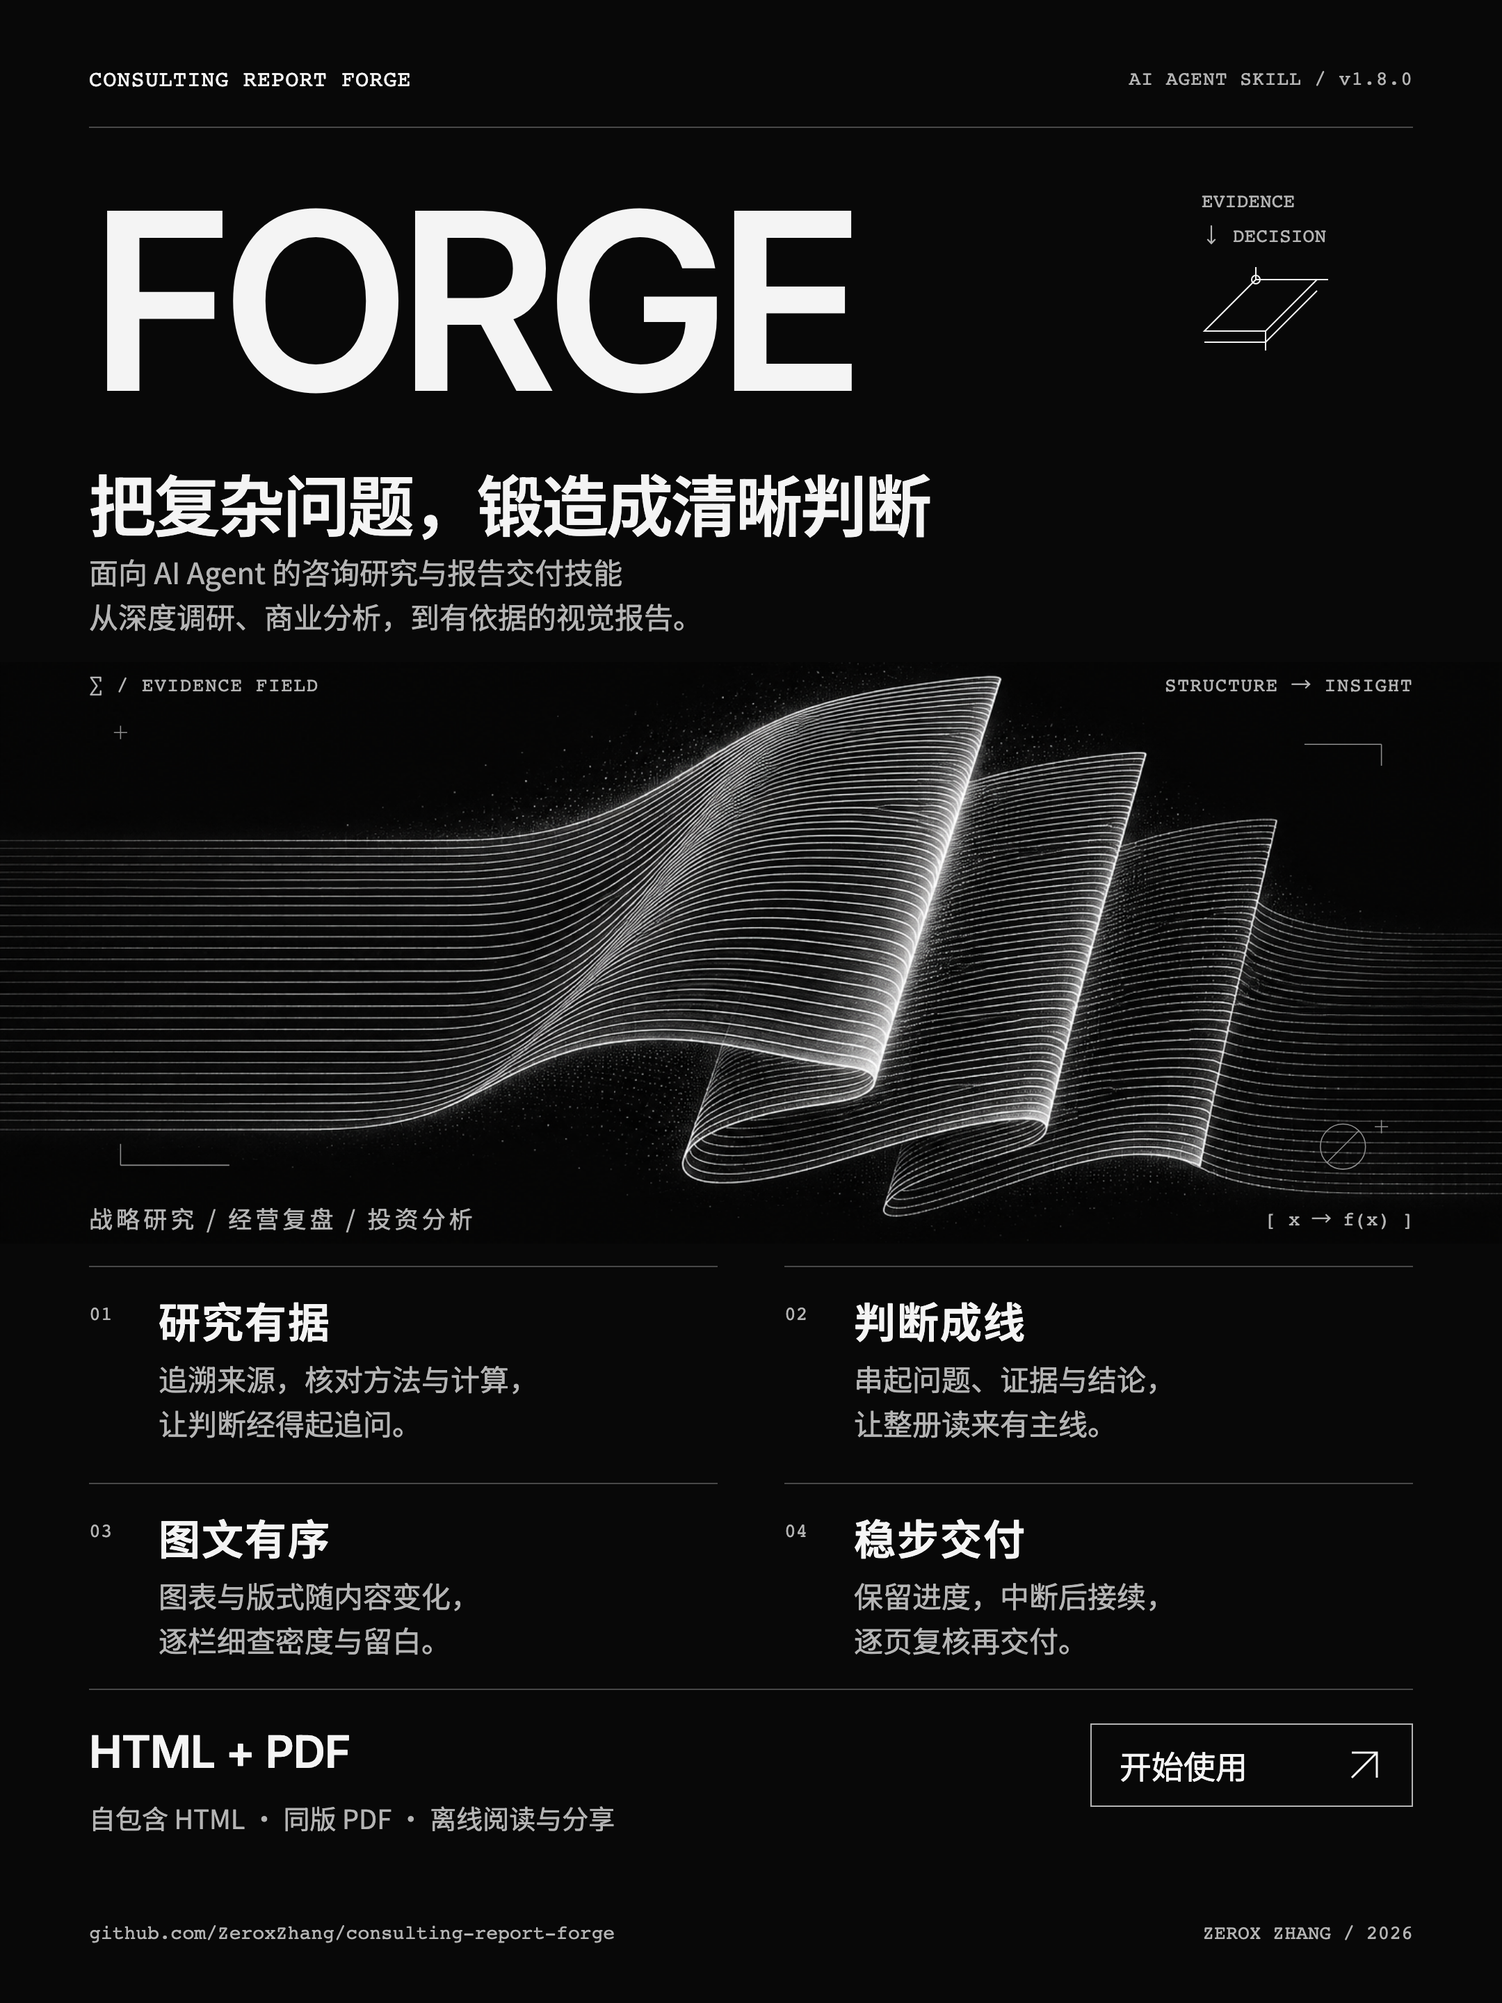
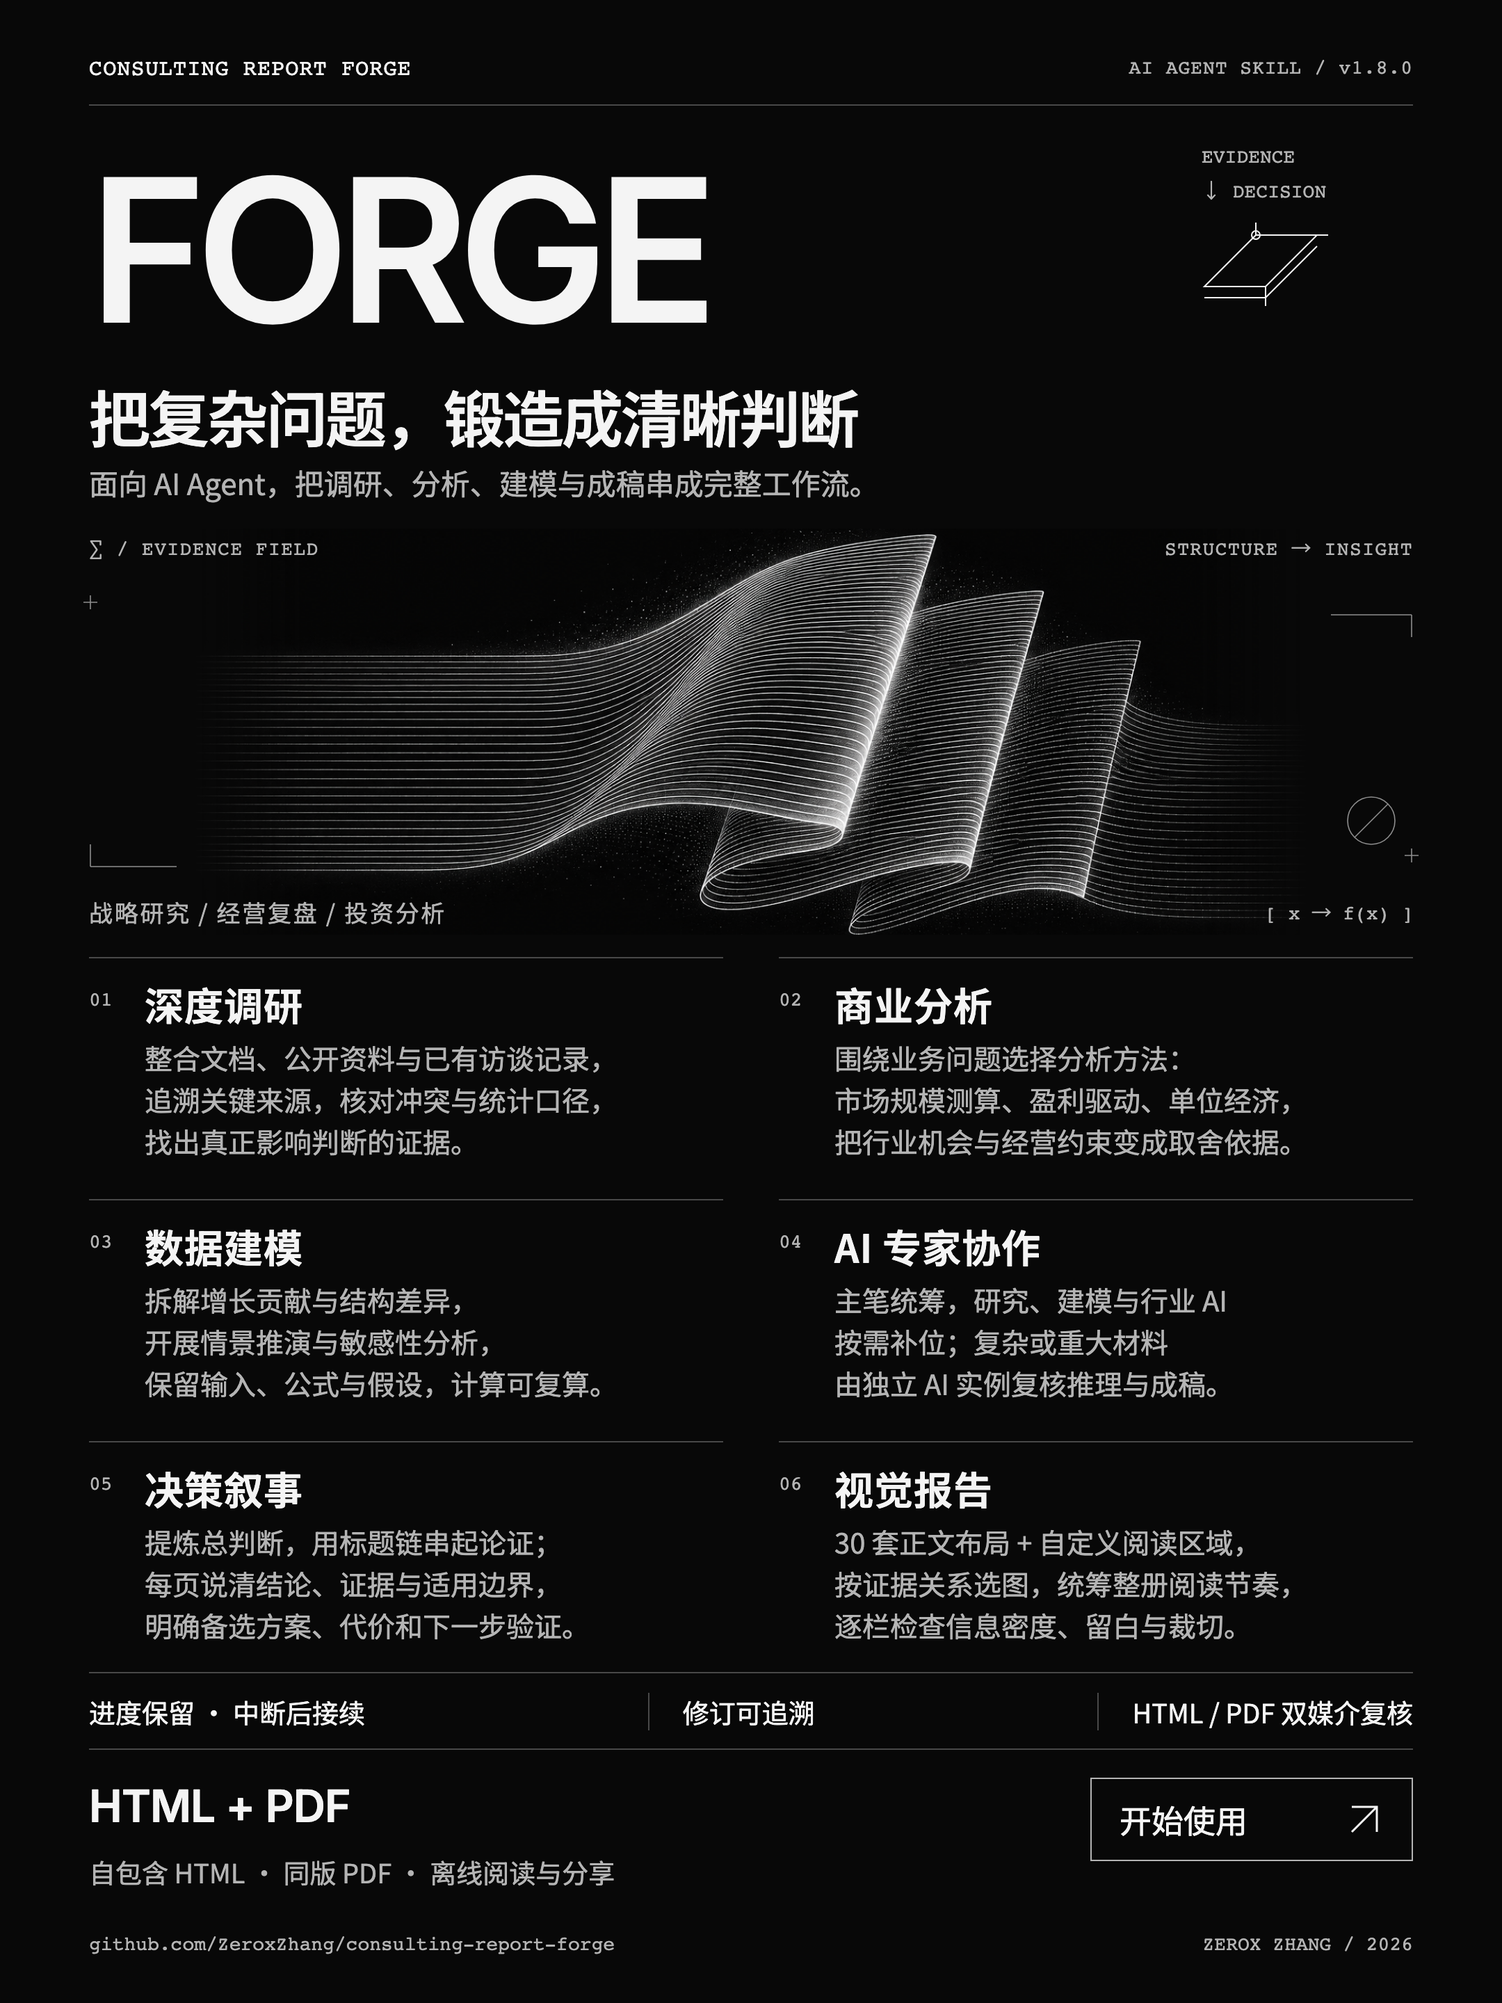
docs: 补充海报六项核心能力与交付亮点

diff --git a/docs/showcase/skill-poster.html b/docs/showcase/skill-poster.html
@@ -5,8 +5,8 @@
   <meta name="viewport" content="width=1080">
   <title>Consulting Report Forge · 产品介绍海报</title>
   <!-- design intent: 字体驱动；黑白平行光栅折成书页，微光仅强调线条形变。
-       用户指定的单色与微光覆盖 B8 的霓虹色默认值。178px : 14px = 12.7:1。
-       画布：1440 = 上48 + 行(44+352+418+288+132+38) + 间隔80 + 下40。
+       用户指定的单色与微光覆盖 B8 的霓虹色默认值。144px : 14px = 10.3:1。
+       画布：1440 = 上40 + 行(36+272+292+498+56+90+28) + 间隔96 + 下32。
        文案由 skill-poster.ir.json 维护，build-poster.cjs 同步 data-copy 叶节点。 -->
   <style>
     @font-face{font-family:'Poster Sans';font-weight:400;src:url('../../assets/fonts/noto-sans-sc-400.woff2') format('woff2');font-display:block}
@@ -16,28 +16,30 @@
     *{box-sizing:border-box}
     :root{--paper:#080808;--ink:#f4f4f4;--muted:#b4b4b4;--line:#484848;--mono:'JetBrains Mono','SFMono-Regular',Consolas,monospace}
     body{margin:0;background:var(--paper);color:var(--ink);font-family:'Poster Sans','PingFang SC','Microsoft YaHei',sans-serif}
-    main{width:1080px;height:1440px;padding:48px 64px 40px;display:grid;grid-template-rows:44px 352px 418px 288px 132px 38px;gap:16px;align-content:start;overflow:hidden}
+    main{width:1080px;height:1440px;padding:40px 64px 32px;display:grid;grid-template-rows:36px 272px 292px 498px 56px 90px 28px;gap:16px;align-content:start;overflow:hidden}
     h1,h2,p,figure{margin:0}
     header{display:flex;justify-content:space-between;align-items:flex-start;border-bottom:1px solid var(--line);font-family:var(--mono);font-size:16px;letter-spacing:.03em}
     .edition{color:var(--muted);font-size:14px}
-    .intro{display:grid;grid-template-columns:1fr 160px;grid-template-rows:220px 68px 64px;align-content:start}
-    h1{font:600 178px/1.22 'Poster Display','Arial Black',sans-serif;letter-spacing:-10px;align-self:start}
-    .signal{font-family:var(--mono);font-size:14px;line-height:1.8;color:var(--muted);padding:24px 0 0 8px}
+    .intro{display:grid;grid-template-columns:1fr 160px;grid-template-rows:176px 64px 32px;align-content:start}
+    h1{font:600 144px/1.22 'Poster Display','Arial Black',sans-serif;letter-spacing:-8px;align-self:start}
+    .signal{font-family:var(--mono);font-size:14px;line-height:1.8;color:var(--muted);padding:8px 0 0 8px}
     .signal svg{display:block;width:92px;height:70px;margin-top:4px;stroke:var(--ink);fill:none;stroke-width:1;pointer-events:none}
-    .intro h2{grid-column:1/-1;font-size:48px;line-height:1.4;font-weight:600;letter-spacing:-1.5px}
+    .intro h2{grid-column:1/-1;font-size:44px;line-height:1.45;font-weight:600;letter-spacing:-1.5px}
     .intro p{grid-column:1/-1;font-size:21px;line-height:1.5;color:var(--muted);white-space:pre-line}
-    .hero{position:relative;isolation:isolate;overflow:hidden;margin:0 -64px;display:grid;grid-template-rows:32px 350px 36px;align-content:start}
-    .hero-art{position:absolute;width:1080px;height:720px;left:0;top:-128px;z-index:-1;pointer-events:none;object-fit:contain;mask-image:linear-gradient(to bottom,transparent,#000 14%,#000 85%,transparent)}
+    .hero{position:relative;isolation:isolate;overflow:hidden;margin:0 -64px;display:grid;grid-template-rows:28px 232px 32px;align-content:start}
+    .hero-art{position:absolute;width:800px;height:533.333px;left:140px;top:-98px;z-index:-1;pointer-events:none;object-fit:contain;mask-image:linear-gradient(to right,transparent,#000 10%,#000 90%,transparent)}
     .hero-label,.hero-caption{margin:0 64px;display:flex;justify-content:space-between;align-items:center;font:14px/1.5 var(--mono);letter-spacing:.05em;color:var(--muted);z-index:1}
-    .hero-caption{grid-row:3;font-family:'Poster Sans',sans-serif;font-size:17px;letter-spacing:.15em}
+    .hero-caption{grid-row:3;font-family:'Poster Sans',sans-serif;font-size:17px;letter-spacing:.08em}
     .hero-caption .code{font:14px/1.5 var(--mono);letter-spacing:0}
-    .geometry{position:absolute;inset:0;width:1080px;height:418px;pointer-events:none;z-index:0;fill:none;stroke:#8e8e8e;stroke-width:.8}
-    .capabilities{display:grid;grid-template-columns:1fr 1fr;grid-template-rows:132px 132px;gap:24px 48px;align-content:start}
-    .cap{border-top:1px solid var(--line);padding-top:16px;display:grid;grid-template-columns:42px 1fr;grid-template-rows:114px;align-content:start;gap:8px}
+    .geometry{position:absolute;inset:0;width:1080px;height:292px;pointer-events:none;z-index:0;fill:none;stroke:#8e8e8e;stroke-width:.8}
+    .capabilities{display:grid;grid-template-columns:1fr 1fr;grid-template-rows:150px 150px 150px;gap:24px 40px;align-content:start}
+    .cap{border-top:1px solid var(--line);padding-top:12px;display:grid;grid-template-columns:32px 1fr;grid-template-rows:137px;align-content:start;gap:8px}
     .num{font:14px/2 var(--mono);color:var(--muted);padding-top:3px}
-    .cap h2{font-size:30px;line-height:1.5;font-weight:600;letter-spacing:1px;margin-bottom:4px}
-    .cap p{font-size:21px;line-height:1.5;color:var(--muted);white-space:pre-line}
-    .delivery{border-top:1px solid var(--line);padding-top:24px;display:grid;grid-template-columns:1fr 232px;grid-template-rows:84px;gap:32px;align-content:start}
+    .cap h2{font-size:28px;line-height:1.5;font-weight:600;letter-spacing:.5px;margin-bottom:3px}
+    .cap p{font-size:20px;line-height:1.5;color:var(--muted);white-space:pre-line}
+    .workflow{border-top:1px solid var(--line);border-bottom:1px solid var(--line);display:flex;align-items:center;justify-content:space-between;font-size:19px;color:var(--ink)}
+    .workflow span+span{border-left:1px solid var(--line);padding-left:24px}
+    .delivery{padding-top:4px;display:grid;grid-template-columns:1fr 232px;grid-template-rows:84px;gap:32px;align-content:start}
     .delivery h2{font:600 32px/1.3 'Poster Display','Poster Sans',sans-serif;letter-spacing:-.5px;margin-bottom:10px}
     .delivery p{font-size:19px;line-height:1.7;color:var(--muted)}
     .cta{display:flex;justify-content:space-between;align-items:center;align-self:start;height:60px;border:1px solid #b4b4b4;padding:0 20px;color:var(--ink);text-decoration:none;font-size:23px}
@@ -54,24 +56,38 @@
     <h1>FORGE</h1>
     <div class="signal" aria-hidden="true">EVIDENCE<br>↓ DECISION<svg viewBox="0 0 92 70"><path d="M2 52 39 15 83 15 46 52Z M2 60 46 60 83 23 M39 15V6 M46 52v14 M83 15h8"/><circle cx="39" cy="15" r="3"/></svg></div>
     <h2 data-copy="hero.title">把复杂问题，锻造成清晰判断</h2>
-    <p data-copy="hero.body">面向 AI Agent 的咨询研究与报告交付技能
-从深度调研、商业分析，到有依据的视觉报告。</p>
+    <p data-copy="hero.body">面向 AI Agent，把调研、分析、建模与成稿串成完整工作流。</p>
   </section>
   <figure class="hero" aria-label="连续平行光栅折叠成层叠书页，象征证据被组织为清晰报告">
     <img class="hero-art" src="skill-poster-art.png" alt="">
     <div class="hero-label" aria-hidden="true"><span>∑ / EVIDENCE FIELD</span><span>STRUCTURE → INSIGHT</span></div>
-    <svg class="geometry" viewBox="0 0 1080 438" aria-hidden="true"><path d="M60 53h10m-5-5v10 M1010 350h10m-5-5v10 M65 379v-16m0 16h82 M1015 62v16m0-16h-58"/><circle cx="986" cy="365" r="17"/><path d="m974 377 24-24"/></svg>
+    <svg class="geometry" viewBox="0 0 1080 292" aria-hidden="true"><path d="M60 53h10m-5-5v10 M1010 235h10m-5-5v10 M65 243v-16m0 16h62 M1015 62v16m0-16h-58"/><circle cx="986" cy="210" r="17"/><path d="m974 222 24-24"/></svg>
     <figcaption class="hero-caption"><span data-copy="scenarios.body">战略研究 / 经营复盘 / 投资分析</span><span class="code" aria-hidden="true">[ x → f(x) ]</span></figcaption>
   </figure>
-  <section class="capabilities" aria-label="四项核心价值">
-    <article class="cap"><span class="num">01</span><div><h2 data-copy="research.title">研究有据</h2><p data-copy="research.body">追溯来源，核对方法与计算，
-让判断经得起追问。</p></div></article>
-    <article class="cap"><span class="num">02</span><div><h2 data-copy="story.title">判断成线</h2><p data-copy="story.body">串起问题、证据与结论，
-让整册读来有主线。</p></div></article>
-    <article class="cap"><span class="num">03</span><div><h2 data-copy="visual.title">图文有序</h2><p data-copy="visual.body">图表与版式随内容变化，
-逐栏细查密度与留白。</p></div></article>
-    <article class="cap"><span class="num">04</span><div><h2 data-copy="workflow.title">稳步交付</h2><p data-copy="workflow.body">保留进度，中断后接续，
-逐页复核再交付。</p></div></article>
+  <section class="capabilities" aria-label="六项核心能力">
+    <article class="cap"><span class="num">01</span><div><h2 data-copy="research.title">深度调研</h2><p data-copy="research.body">整合文档、公开资料与已有访谈记录，
+追溯关键来源，核对冲突与统计口径，
+找出真正影响判断的证据。</p></div></article>
+    <article class="cap"><span class="num">02</span><div><h2 data-copy="analysis.title">商业分析</h2><p data-copy="analysis.body">围绕业务问题选择分析方法：
+市场规模测算、盈利驱动、单位经济，
+把行业机会与经营约束变成取舍依据。</p></div></article>
+    <article class="cap"><span class="num">03</span><div><h2 data-copy="modeling.title">数据建模</h2><p data-copy="modeling.body">拆解增长贡献与结构差异，
+开展情景推演与敏感性分析，
+保留输入、公式与假设，计算可复算。</p></div></article>
+    <article class="cap"><span class="num">04</span><div><h2 data-copy="collaboration.title">AI 专家协作</h2><p data-copy="collaboration.body">主笔统筹，研究、建模与行业 AI
+按需补位；复杂或重大材料
+由独立 AI 实例复核推理与成稿。</p></div></article>
+    <article class="cap"><span class="num">05</span><div><h2 data-copy="story.title">决策叙事</h2><p data-copy="story.body">提炼总判断，用标题链串起论证；
+每页说清结论、证据与适用边界，
+明确备选方案、代价和下一步验证。</p></div></article>
+    <article class="cap"><span class="num">06</span><div><h2 data-copy="visual.title">视觉报告</h2><p data-copy="visual.body">30 套正文布局 + 自定义阅读区域，
+按证据关系选图，统筹整册阅读节奏，
+逐栏检查信息密度、留白与裁切。</p></div></article>
+  </section>
+  <section class="workflow" aria-label="交付与持续更新">
+    <span data-copy="continuity.title">进度保留 · 中断后接续</span>
+    <span data-copy="revision.title">修订可追溯</span>
+    <span data-copy="review.title">HTML / PDF 双媒介复核</span>
   </section>
   <section class="delivery">
     <div><h2 data-copy="delivery.title">HTML + PDF</h2><p data-copy="delivery.body">自包含 HTML · 同版 PDF · 离线阅读与分享</p></div>

diff --git a/docs/showcase/README.md b/docs/showcase/README.md
@@ -4,7 +4,7 @@
 
 ## Skill 介绍海报（README 头图）
 
-[skill-poster.png](skill-poster.png) 是独立的 **3:4 产品海报，2160 × 2880 像素**。当前介绍 1.8.0，以“把复杂问题，锻造成清晰判断”为主题，呈现研究有据、判断成线、图文有序与稳步交付。新版的图表与版式多样性、逐栏阅读检查、进度接续融入四项价值介绍；复合证据等可选策略没有写成默认能力。
+[skill-poster.png](skill-poster.png) 是独立的 **3:4 产品海报，2160 × 2880 像素**。当前介绍 1.8.0，以“把复杂问题，锻造成清晰判断”为主题，展开深度调研、商业分析、数据建模、按需 AI 专家协作、决策叙事与视觉报告六项能力。文案呈现市场规模测算、盈利驱动、单位经济、情景与敏感性分析、30 套正文布局等具体亮点，补充进度接续、修订追溯和双媒介复核；README 以 720 像素宽展示，点击可查看高清原图。
 
 视觉采用黑白微光、连续平行光栅与局部书页形变，辅以少量数学符号和几何构造。光栅是抽象产品主视觉，不代表实际报告截图；下方的历史报告选页保持独立展示。
 
@@ -26,7 +26,7 @@ node docs/showcase/build-poster.cjs
 |---|---|---|
 | [ai-biopharma-market.png](ai-biopharma-market.png) | 4 | 市场规模估计与统计边界 |
 | [ai-biopharma-landscape.png](ai-biopharma-landscape.png) | 7 | 参与者证据矩阵 |
-| [ai-biopharma-deals.png](ai-biopharma-deals.png) | 14 | 首付与条件里程碑散点；海报主图 |
+| [ai-biopharma-deals.png](ai-biopharma-deals.png) | 14 | 首付与条件里程碑散点 |
 | [ai-biopharma-finance.png](ai-biopharma-finance.png) | 16 | 收入、亏损与现金的财务比较 |
 | [ai-biopharma-cash.png](ai-biopharma-cash.png) | 17 | 现金变动桥 |
 | [ai-biopharma-valuation.png](ai-biopharma-valuation.png) | 22 | 条件估值敏感性 |
@@ -34,7 +34,7 @@ node docs/showcase/build-poster.cjs
 
 本次已核对新版 `audit.json` 的 acceptance 完成状态与空错误列表，以及 `review.json` 的 complete 状态、作者与独立实例对 31 页 HTML/PDF 的覆盖记录。七张公开图片的 SHA-256 均与审查 evidence 中的 HTML 截图一致；[截图清单](ai-biopharma-screenshots.json) 保留原页映射、图片校验值和审查文件校验值。
 
-本版本已完成实际逐页双媒介审查；截图校验用于证明展示的是该版本，不能替代外部事实核验，本次未刷新历史研究来源。完整报告、数据附件与内部审查底稿未复制入仓库；截图保留原始来源、期间与限制，不代表有关公司背书，不作为当前投资或医疗建议。海报只缩放展示原页，不修改其内容。
+本版本已完成实际逐页双媒介审查；截图校验用于证明展示的是该版本，不能替代外部事实核验，本次未刷新历史研究来源。完整报告、数据附件与内部审查底稿未复制入仓库；截图保留原始来源、期间与限制，不代表有关公司背书，不作为当前投资或医疗建议。历史成稿选页不随产品海报文案更新。
 
 ## 1.3.0 最新报告选页：MES
 

diff --git a/README.md b/README.md
@@ -8,7 +8,7 @@
 
 [![Version](https://img.shields.io/badge/version-1.8.0-17324D?style=flat-square)](package.json) [![License](https://img.shields.io/badge/license-Apache--2.0-007C91?style=flat-square)](LICENSE) [![Output](https://img.shields.io/badge/output-HTML%20%2B%20PDF-17324D?style=flat-square)](#你会拿到什么) [![Node](https://img.shields.io/badge/Node.js-20%2B-007C91?style=flat-square&logo=nodedotjs&logoColor=white)](#快速开始) [![GitHub Stars](https://img.shields.io/github/stars/ZeroxZhang/consulting-report-forge?style=flat-square&logo=github&label=Stars)](https://github.com/ZeroxZhang/consulting-report-forge/stargazers)
 
-<a href="docs/showcase/skill-poster.png"><img src="docs/showcase/skill-poster.png" width="600" alt="Consulting Report Forge 1.8.0 黑白光栅产品海报：把复杂问题，锻造成清晰判断；研究有据、判断成线、图文有序、稳步交付，输出 HTML 与 PDF"></a>
+<a href="docs/showcase/skill-poster.png"><img src="docs/showcase/skill-poster.png" width="720" alt="Consulting Report Forge 1.8.0 黑白光栅产品海报：深度调研、商业分析、数据建模、按需 AI 专家协作、决策叙事与视觉报告；30 套正文布局，支持进度接续、修订追溯及 HTML/PDF 交付"></a>
 
 [下载 3:4 高清海报](docs/showcase/skill-poster.png) · [可编辑海报源](docs/showcase/skill-poster.html)
 
